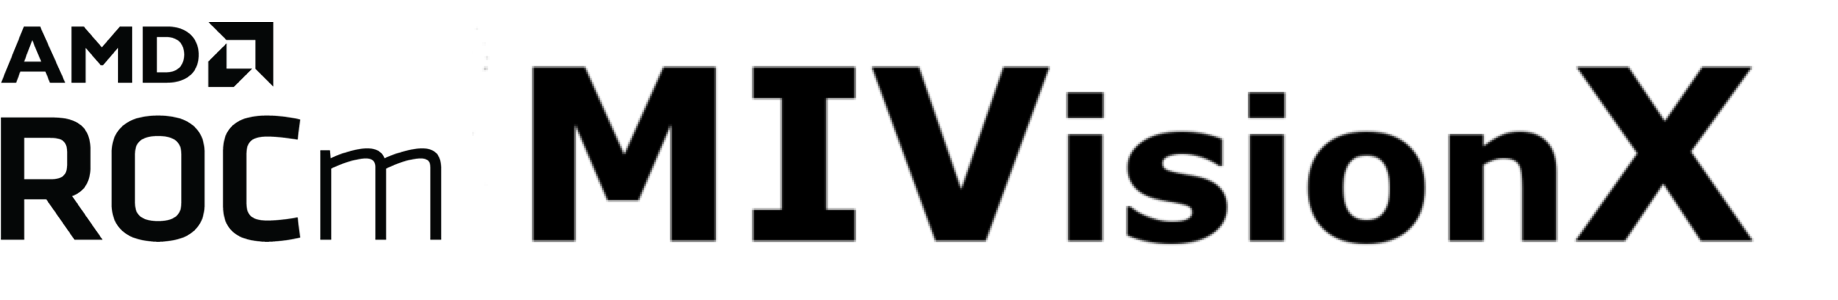
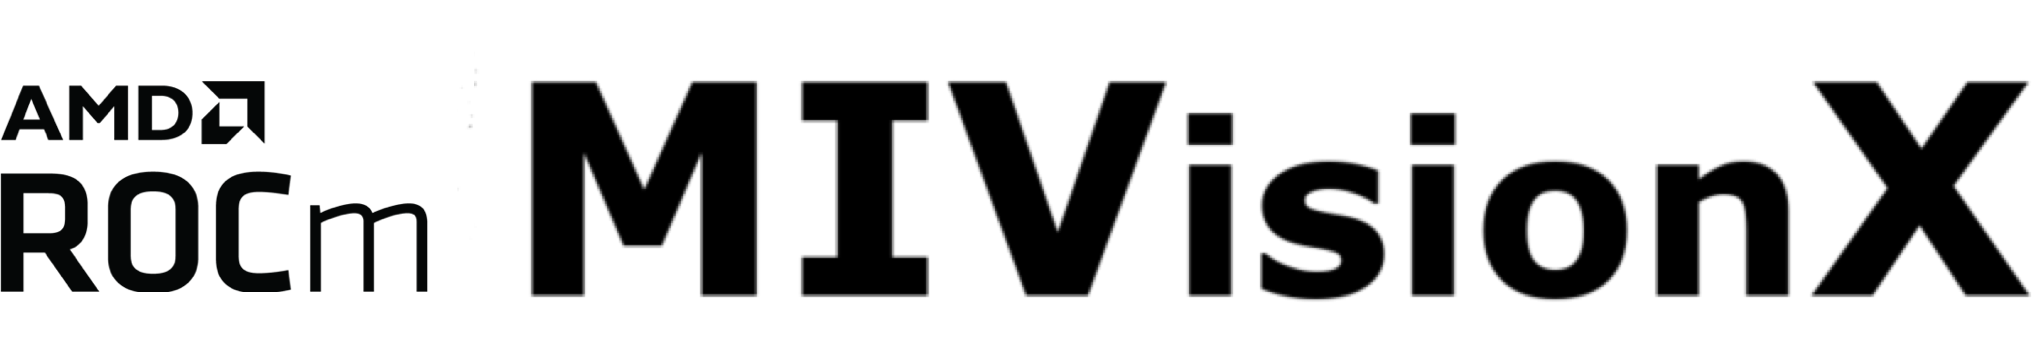
MIVisionX - Updates (#697)
* MIVisionX - Fix Logo

* Readme - Updates

Changed region(s): [[0.0, 0.06, 1.0, 0.84], [0.6513, 0.3, 0.7443, 0.42]]

diff --git a/README.md b/README.md
@@ -40,7 +40,7 @@ MIVisionX toolkit is a set of comprehensive computer vision and machine intellig
 
 <p align="center"><img width="30%" src="docs/images/OpenVX_logo.png" /></p>
 
-[AMD OpenVX](amd_openvx#amd-openvx-amd_openvx) is a highly optimized open source implementation of the <a href="https://www.khronos.org/openvx/" target="_blank">Khronos OpenVX™</a> computer vision specification. It allows for rapid prototyping as well as fast execution on a wide range of computer hardware, including small embedded x86 CPUs and large workstation discrete GPUs.
+[AMD OpenVX](amd_openvx#amd-openvx-amd_openvx) is a highly optimized open source implementation of the <a href="https://www.khronos.org/registry/OpenVX/specs/1.3/html/OpenVX_Specification_1_3.html" target="_blank">Khronos OpenVX™ 1.3</a> computer vision specification. It allows for rapid prototyping as well as fast execution on a wide range of computer hardware, including small embedded x86 CPUs and large workstation discrete GPUs.
 
 <a href="https://www.khronos.org/registry/OpenVX/specs/1.0.1/html/index.html" target="_blank">Khronos OpenVX™ 1.0.1</a> conformant implementation is available in [MIVisionX Lite](https://github.com/GPUOpen-ProfessionalCompute-Libraries/MIVisionX/tree/openvx-1.0.1)
 
@@ -396,7 +396,7 @@ sudo docker run -it --device=/dev/kfd --device=/dev/dri --cap-add=SYS_RAWIO --de
   + Ubuntu - `18.04` / `20.04`
   + CentOS - `7` / `8`
   + SLES - `15-SP2`
-* ROCm: rocm-dkms - `4.3.1.40301-59`
+* ROCm: rocm-dkms - `4.5.0.40500-56 `
 * rocm-cmake - [rocm-4.2.0](https://github.com/RadeonOpenCompute/rocm-cmake/releases/tag/rocm-4.2.0)
 * MIOpenGEMM - [1.1.5](https://github.com/ROCmSoftwarePlatform/MIOpenGEMM/releases/tag/1.1.5)
 * MIOpen - [2.14.0](https://github.com/ROCmSoftwarePlatform/MIOpen/releases/tag/2.14.0)
